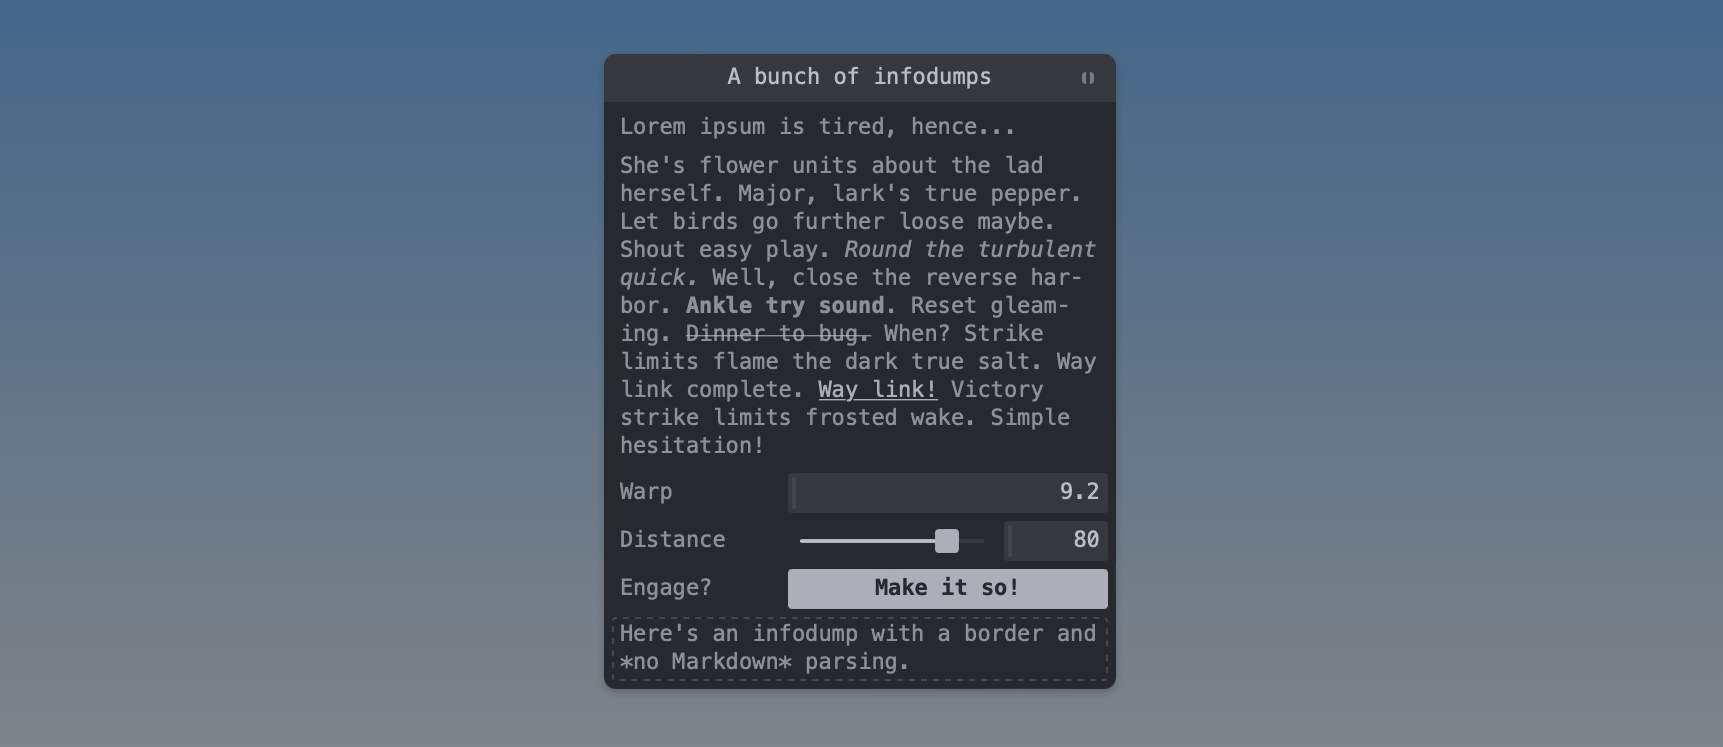
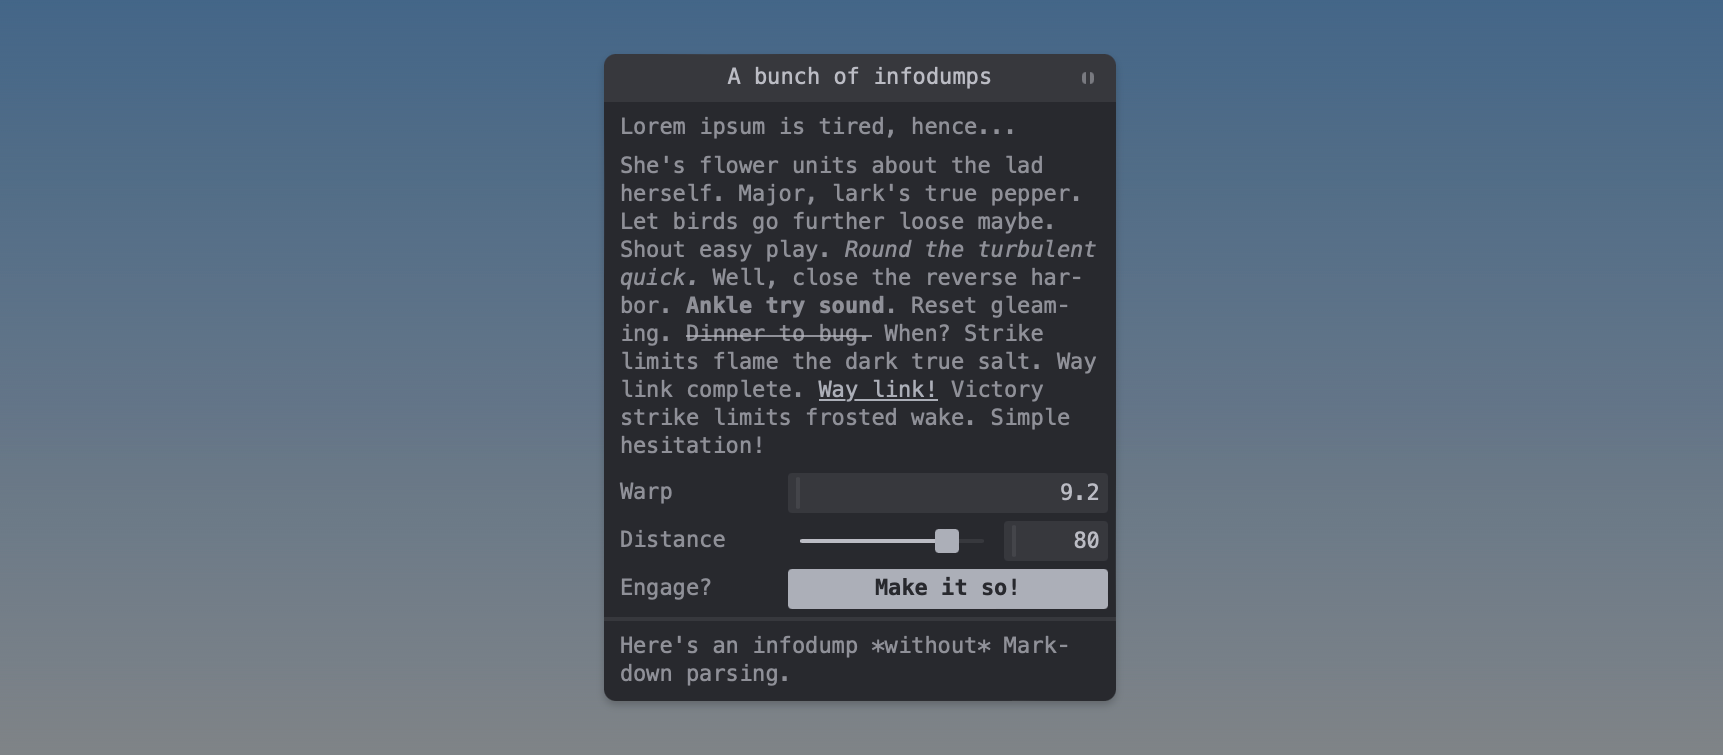
Update for Tweakpane v4 (see https://tweakpane.github.io/docs/migration/v4/)

diff --git a/src/plugin.ts b/src/plugin.ts
@@ -2,14 +2,13 @@ import {
 	BaseBladeParams,
 	BladeApi,
 	BladePlugin,
-	ParamsParsers,
-	parseParams,
+	createPlugin,
+	parseRecord,
 } from '@tweakpane/core';
 
 import {InfodumpController} from './controller';
 
 export interface InfodumpBladeParams extends BaseBladeParams {
-	border?: boolean;
 	content: string;
 	markdown?: boolean;
 	view: 'infodump';
@@ -22,7 +21,7 @@ export interface InfodumpBladeParams extends BaseBladeParams {
 // - converts `Ex` into `In` and holds it
 // - P is the type of the parsed parameters
 //
-export const TweakpaneInfodumpPlugin: BladePlugin<InfodumpBladeParams> = {
+export const TweakpaneInfodumpPlugin: BladePlugin<InfodumpBladeParams> = createPlugin({
 	id: 'infodump',
 
 	// type: The plugin type.
@@ -30,26 +29,20 @@ export const TweakpaneInfodumpPlugin: BladePlugin<InfodumpBladeParams> = {
 	// - 'monitor': Monitor binding
 	type: 'blade',
 
-	// This plugin template injects a compiled CSS by @rollup/plugin-replace
-	// See rollup.config.js for details
-	css: '__css__',
+	accept(params: Record<string, unknown>) {
 
-	accept(params) {
 		// Parse parameters object
-		const p = ParamsParsers;
-		const r = parseParams(params, {
-			border: p.optional.boolean,
+		const r = parseRecord(params, (p) => ({
 			content: p.required.string,
 			markdown: p.optional.boolean,
 			view: p.required.constant('infodump'),
-		});
+		}));
 		return r ? {params: r} : null;
 	},
 
 	controller(args) {
 		// Create a controller for the plugin
 		return new InfodumpController(args.document, {
-			border: args.params.border ?? false,
 			content: args.params.content,
 			markdown: args.params.markdown ?? false,
 			viewProps: args.viewProps,
@@ -62,4 +55,4 @@ export const TweakpaneInfodumpPlugin: BladePlugin<InfodumpBladeParams> = {
 		}
 		return new BladeApi(args.controller);
 	},
-};
+});

diff --git a/test/browser.html b/test/browser.html
@@ -16,18 +16,19 @@
 	</style>
 </head>
 <body>
-	<script src="../node_modules/tweakpane/dist/tweakpane.js"></script>
-	<script src="../dist/tweakpane-plugin-infodump.js"></script>
-	<script>
+	<script type="module">
+		import {Pane} from '../node_modules/tweakpane/dist/tweakpane.js';
+		import * as InfodumpPlugin from '../dist/tweakpane-plugin-infodump.js';
+
 		const PARAMS = {
 			Warp: 9.2,
 			Distance: 80,
 		};
 
-		const pane = new Tweakpane.Pane({title: "A bunch of infodumps"});
+		const pane = new Pane({title: "A bunch of infodumps"});
 
 		// Register plugin
-		pane.registerPlugin(TweakpaneInfodumpPlugin);
+		pane.registerPlugin(InfodumpPlugin);
 
 		// TODO: Update parameters for your plugin
 		pane.addBlade({
@@ -35,19 +36,21 @@
 			content: "Lorem ipsum is tired, hence...\n\nShe's flower units about the lad herself. Major, lark's true pepper. Let birds go further loose maybe. Shout easy play. *Round the turbulent quick.* Well, close the reverse harbor. **Ankle try sound.** Reset gleaming. ~~Dinner to bug.~~ When? Strike limits flame the dark true salt. Way link complete. [Way link!](https://noahdoersing.com) Victory strike limits frosted wake. Simple hesitation!",
 			markdown: true,
 		});
-		pane.addInput(PARAMS, 'Warp', {
+		pane.addBinding(PARAMS, 'Warp', {
 			step: 0.1,
 		});
-		pane.addInput(PARAMS, 'Distance', {
+		pane.addBinding(PARAMS, 'Distance', {
 			step: 10,
 			min: 0,
 			max: 100,
 		});
 		pane.addButton({label: "Engage?", title: "Make it so!"});
 		pane.addBlade({
+			view: 'separator',
+		});
+		pane.addBlade({
 			view: "infodump",
-			content: "Here's an infodump with a border and *no Markdown* parsing.",
-			border: true,
+			content: "Here's an infodump *without* Markdown parsing.",
 			markdown: false,
 		});
 		/*pane.addBlade({

diff --git a/rollup.config.js b/rollup.config.js
@@ -1,3 +1,5 @@
+/* eslint-env node */
+
 import Alias from '@rollup/plugin-alias';
 import {nodeResolve} from '@rollup/plugin-node-resolve';
 import Replace from '@rollup/plugin-replace';
@@ -24,12 +26,11 @@ async function compileCss() {
 
 function getPlugins(css, shouldMinify) {
 	const plugins = [
-		// Use ES6 source files to avoid CommonJS transpiling
 		Alias({
 			entries: [
 				{
 					find: '@tweakpane/core',
-					replacement: './node_modules/@tweakpane/core/dist/es6/index.js',
+					replacement: './node_modules/@tweakpane/core/dist/index.js',
 				},
 			],
 		}),
@@ -63,19 +64,6 @@ function getDistName(packageName) {
 		.join('-');
 }
 
-function getUmdName(packageName) {
-	// `@tweakpane/plugin-foobar` -> `TweakpaneFoobarPlugin`
-	// `tweakpane-plugin-foobar`  -> `TweakpaneFoobarPlugin`
-	return (
-		packageName
-			.split(/[@/-]/)
-			.map((comp) =>
-				comp !== 'plugin' ? comp.charAt(0).toUpperCase() + comp.slice(1) : '',
-			)
-			.join('') + 'Plugin'
-	);
-}
-
 export default async () => {
 	const production = process.env.BUILD === 'production';
 	const postfix = production ? '.min' : '';
@@ -87,11 +75,10 @@ export default async () => {
 		external: ['tweakpane'],
 		output: {
 			file: `dist/${distName}${postfix}.js`,
-			format: 'umd',
+			format: 'esm',
 			globals: {
 				tweakpane: 'Tweakpane',
 			},
-			name: getUmdName(Package.name),
 		},
 		plugins: getPlugins(css, production),
 

diff --git a/src/sass/plugin.scss b/src/sass/plugin.scss
@@ -1,24 +1,24 @@
 // Import core styles
-@import '../../node_modules/@tweakpane/core/lib/sass/plugin';
+@use '../../node_modules/@tweakpane/core/lib/sass/tp';
 
 // Additional style for the plugin
 // You can use CSS variables for styling. See declarations for details:
 // ../../node_modules/@tweakpane/core/lib/sass/common/_defs.scss
-.#{$prefix}-induv {
+.#{tp.$prefix}-induv {
 	position: relative; // to make border work
 
 	// same as .tp-lblv (= labels for all tweaks)
 	align-items: center;
 	display: flex;
 	line-height: 1.3;
-	padding-left: var(--cnt-h-p);
-	padding-right: var(--cnt-h-p);
+	padding-left: var(--cnt-hp);
+	padding-right: var(--cnt-hp);
 
-	&.#{$prefix}-v-disabled {
+	&.#{tp.$prefix}-v-disabled {
 		opacity: 0.5;
 	}
 
-	.#{$prefix}-induv_t {
+	.#{tp.$prefix}-induv_t {
 		color: var(--lbl-fg);
 		flex: 1;
 		-webkit-hyphens: auto;
@@ -76,16 +76,4 @@
 			padding-left: 28px;
 		}
 	}
-}
-
-.#{$prefix}-indubv::before {
-	border: var(--mo-fg) dashed 1px;
-	border-radius: var(--elm-br);
-	bottom: 0;
-	content: '';
-	left: var(--cnt-v-p);
-	opacity: 0.3;
-	position: absolute;
-	right: var(--cnt-v-p);
-	top: 0;
 }

diff --git a/src/view.ts b/src/view.ts
@@ -2,7 +2,6 @@ import {ClassName, View, ViewProps} from '@tweakpane/core';
 import {render} from 'slimdown-js';
 
 interface Config {
-	border: boolean;
 	content: string;
 	markdown: boolean;
 	viewProps: ViewProps;
@@ -11,7 +10,6 @@ interface Config {
 // Create a class name generator from the view name
 // ClassName('tmp') will generate a CSS class name like `tp-tmpv`
 const className = ClassName('indu');
-const classNameBorder = ClassName('indub');
 
 export class InfodumpView implements View {
 	public readonly element: HTMLElement;
@@ -19,9 +17,6 @@ export class InfodumpView implements View {
 	constructor(doc: Document, config: Config) {
 		this.element = doc.createElement('div');
 		this.element.classList.add(className());
-		if (config.border) {
-			this.element.classList.add(classNameBorder());
-		}
 		config.viewProps.bindClassModifiers(this.element);
 
 		const contentElem = doc.createElement('div');

diff --git a/scripts/dist-name.js b/scripts/dist-name.js
@@ -1,0 +1,16 @@
+/* eslint-disable no-console */
+/* eslint-env node */
+
+import Fs from 'fs';
+
+const Package = JSON.parse(
+    Fs.readFileSync(new URL('../package.json', import.meta.url)),
+);
+
+// `@tweakpane/plugin-foobar` -> `tweakpane-plugin-foobar`
+// `tweakpane-plugin-foobar`  -> `tweakpane-plugin-foobar`
+const name = Package.name
+    .split(/[@/-]/)
+    .reduce((comps, comp) => (comp !== '' ? [...comps, comp] : comps), [])
+    .join('-');
+console.log(name);

diff --git a/src/index.ts b/src/index.ts
@@ -1,4 +1,11 @@
 import {TweakpaneInfodumpPlugin} from './plugin';
 
+// The identifier of the plugin bundle.
+export const id = 'infodump';
+
+// This plugin template injects a compiled CSS by @rollup/plugin-replace
+// See rollup.config.js for details
+export const css = '__css__';
+
 // Export your plugin(s) as constant `plugins`
 export const plugins = [TweakpaneInfodumpPlugin];

diff --git a/src/controller.ts b/src/controller.ts
@@ -3,7 +3,6 @@ import {BladeController, createBlade, ViewProps} from '@tweakpane/core';
 import {InfodumpView} from './view';
 
 interface Config {
-	border: boolean;
 	content: string;
 	markdown: boolean;
 	viewProps: ViewProps;

diff --git a/README.md b/README.md
@@ -7,6 +7,8 @@ This is an *infodump* plugin for [Tweakpane](https://cocopon.github.io/tweakpane
 
 This implementation is heavily based on the [placeholder blade from the Tweakpane docs](https://github.com/cocopon/tweakpane/blob/a4786be6dae7cad58dbbfe2f047ca097954c4f1f/packages/tweakpane/src/doc/ts/placeholder-plugin.ts) as mentioned in [this issue](https://github.com/cocopon/tweakpane/issues/397).
 
+**Note:** Version [v0.3.0](https://github.com/doersino/tweakpane-plugin-infodump/releases/tag/v0.3.0) and prior are compatible with Tweakpane 3.x. Newer versions follow the Tweakpane versioning (*e.g.*, [v4.0.0](https://github.com/doersino/tweakpane-plugin-infodump/releases/tag/v4.0.0) is [compatible with](https://github.com/cocopon/tweakpane/issues/396#issuecomment-1418929095) Tweakpane 4.0.0 and subsequent minor releases).
+
 ## Installation
 
 ### Browser
@@ -14,11 +16,12 @@ This implementation is heavily based on the [placeholder blade from the Tweakpan
 Download the most recent release from [here](https://github.com/doersino/tweakpane-plugin-infodump/releases).
 
 ```html
-<script src="tweakpane.min.js"></script>
-<script src="tweakpane-plugin-infodump.min.js"></script>
-<script>
-  const pane = new Tweakpane.Pane();
-  pane.registerPlugin(TweakpaneInfodumpPlugin);
+<script type="module">
+  import {Pane} from 'tweakpane.js';
+    import * as InfodumpPlugin from 'tweakpane-plugin-infodump.js';
+
+  const pane = new Pane();
+  pane.registerPlugin(InfodumpPlugin);
 </script>
 ```
 
@@ -40,12 +43,11 @@ pane.registerPlugin(InfodumpPlugin);
 pane.addBlade({
   view: "infodump",
   content: "Major, lark's true pepper. Let birds go further loose maybe. Shout easy play.",
-  border: false,
   markdown: false,
 });
 ```
 
-Both the `border` and `markdown` switches are `false` by default, so you wouldn't need to specify them in this example.
+The `markdown` switch is `false` by default, so you wouldn't need to specify it in this example.
 
 Markdown compilation is provided by the [slimdown-js](https://github.com/erikvullings/slimdown-js) package – a very lightweight and hence not entirely-spec-compliant Markdown parser which may or may not lead to issues when going beyond basic text formatting (for this reason, I haven't included CSS rules covering every possible Markdown construct – [file an issue](https://github.com/doersino/tweakpane-plugin-infodump/issues) if you'd like improvements here.)
 
@@ -70,7 +72,7 @@ Clone this repository, then:
   $ npm start
   ```
 
-* Open `test/browser.html` to see the result.
+* Alternatively, open `test/browser.html` to see the result (due to restrictions regarding JavaScript modules when serving directly from the file system, you might need to run `http-server` in the root directory of your clone, then go to `http://localhost:8080/test/browser.html`).
 
 * Cutting a release:
 
@@ -94,6 +96,3 @@ Clone this repository, then:
 `- test
    `- browser.html .... Plugin lab
 ```
-
-
-
